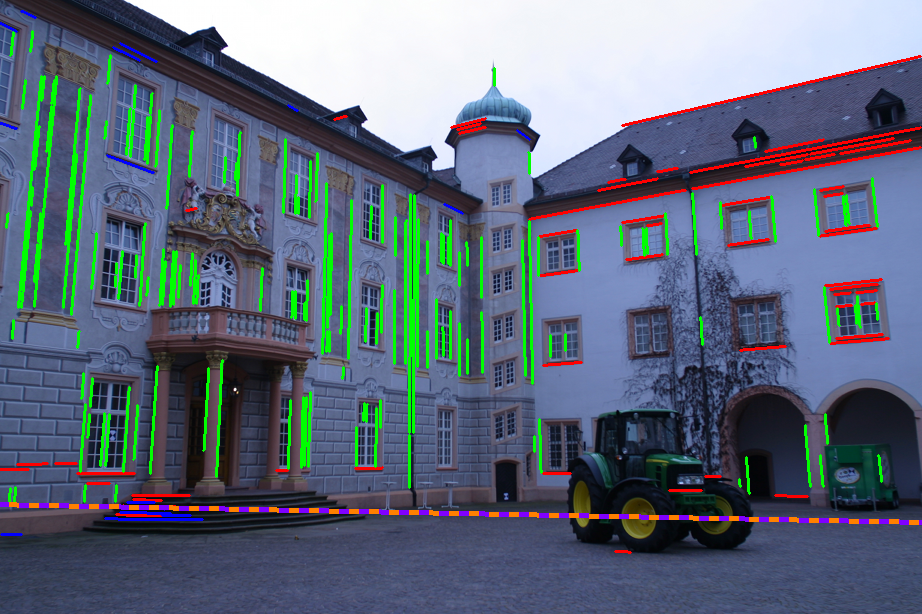
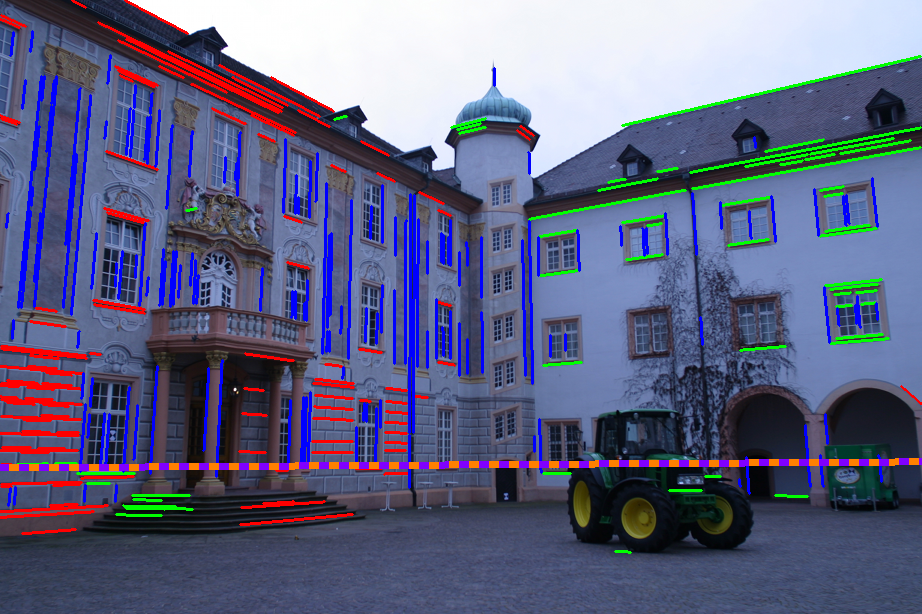
Reconstruction for real data

diff --git a/lab5/lab5.m b/lab5/lab5.m
@@ -168,8 +168,8 @@ x2(3,:) = x2(3,:)./x2(3,:);
 % and stop when (abs(d - d_old)/d) < 0.1 where d_old is the distance
 % in the previous iteration.
 
-init = 'ones'; % ones or Sturm
-init2 = 'Sturm'; 
+init2 = 'ones'; % ones or Sturm
+init = 'Sturm'; 
 %ToDo: implement other initializations
 [Pproj,  Xproj] = factorization_method( x1, x2 , init);
 [Pproj_2,  Xproj_2] = factorization_method( x1, x2 , init2);
@@ -182,8 +182,8 @@ d2 = (sum((euclid(x1) - euclid(Pproj_2(1:3,:)*(Xproj_2))).^2)) + (sum((euclid(x2
 meanError1 = mean(d1);
 meanError2 = mean(d2);
 
-disp(strcat({'The mean error with ones initilization is '},{num2str(meanError1)}));
-disp(strcat({'The mean error with Sturm and Triggs initilization is '},{num2str(meanError2)}));
+disp(strcat({'The mean error with ones initilization is '},{num2str(meanError2)}));
+disp(strcat({'The mean error with Sturm and Triggs initilization is '},{num2str(meanError1)}));
 
 %disp('Sturm and Triggs initialization is noticeable better, so it is used for the rest of the lab.')
 
@@ -522,19 +522,22 @@ params.PLOT = 1;
 % % % We have compiled it with Octave, executed there and save the variables
 % % % that we need to use in this code
 load VPs_real_images.mat
-% VPs contains all the vanishing points for each image??
-v1 = VPs1(1, :);
-v2 = VPs1(2, :);
-v3 = VPs1(3, :);
+% VPs contains all the vanishing points for each image
+VPs1_homog = homog(VPs1);
+VPs2_homog = homog(VPs2);
 
-v1p = VPs2(1, :);
-v2p = VPs2(2, :);
-v3p = VPs2(3, :);
+v1 = VPs1_homog(:, 1);
+v2 = VPs1_homog(:, 2);
+v3 = VPs1_homog(:, 3);
+
+v1p = VPs2_homog(:, 1);
+v2p = VPs2_homog(:, 1);
+v3p = VPs2_homog(:, 1);
 
 % ToDo: use the vanishing points to compute the matrix Hp that 
 %       upgrades the projective reconstruction to an affine reconstruction
 imsize = [h w];
-%Use triangulation
+% Use triangulation
 Pproj_1 = Pproj(1:3, :);
 Pproj_2 = Pproj(4:6, :);
 V1 = triangulate(euclid(v1), euclid(v1p), Pproj_1, Pproj_2, imsize);
@@ -545,7 +548,7 @@ A = [V1';V2';V3'];
 
 [~, ~, V_a] = svd(A);
 
-% Is this the right null vector of A?
+% Right null vector of A
 p = V_a(:, end);
 
 Hp = [eye(3) zeros(3,1); euclid(p)' 1]; 
@@ -582,9 +585,11 @@ axis equal;
 % % % that we need to use in this code
 load VPs_real_images.mat
 % VPs contains all the vanishing points for each image??
-v1 = VPs1(1, :);
-v2 = VPs1(2, :);
-v3 = VPs1(3, :);
+VPs1_homog = homog(VPs1);
+
+v1 = VPs1_homog(:, 1);
+v2 = VPs1_homog(:, 2);
+v3 = VPs1_homog(:, 3);
 
 
 A_absolute_conic = [v1(1)*v2(1) v1(1)*v2(2) + v1(2)*v2(1) v1(1)*v2(3) + v1(3)*v2(1)... 
@@ -598,13 +603,15 @@ A_absolute_conic = [v1(1)*v2(1) v1(1)*v2(2) + v1(2)*v2(1) v1(1)*v2(3) + v1(3)*v2
                 
 [U_w, D_w, V_w]  = svd(A_absolute_conic);
 
-% Null vector of A_absolute_conic. Correct??
+% Null vector of A_absolute_conic
 W = V_w(:,end);
 
 Absolute_conic = [W(1) W(2) W(3);
                   W(2) W(4) W(5);
                   W(3) W(5) W(6)];
-M = Pproj_1(:, 1:3);
+% M = Pproj_1(:, 1:3);
+P_affine = Pproj_1*pinv(Hp);
+M = P_affine(:, 1:3);
 AA_t = pinv(M'*Absolute_conic*M);
 
 A = chol(AA_t);
